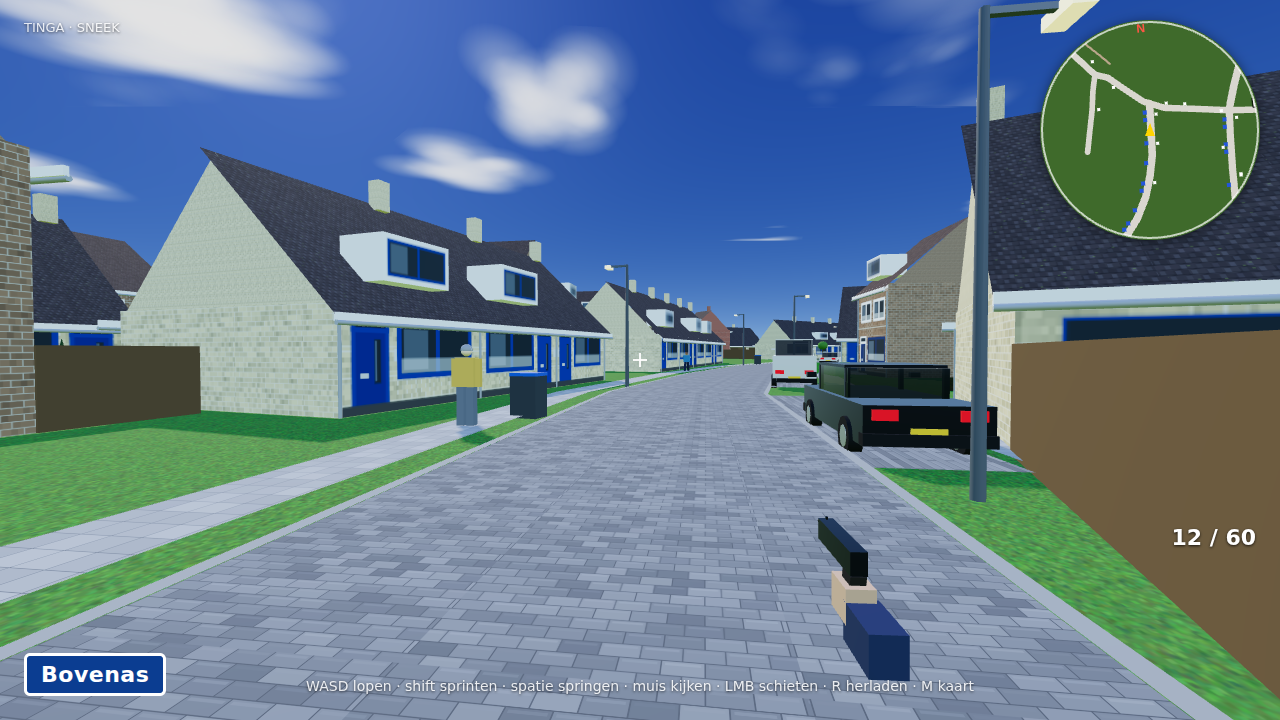
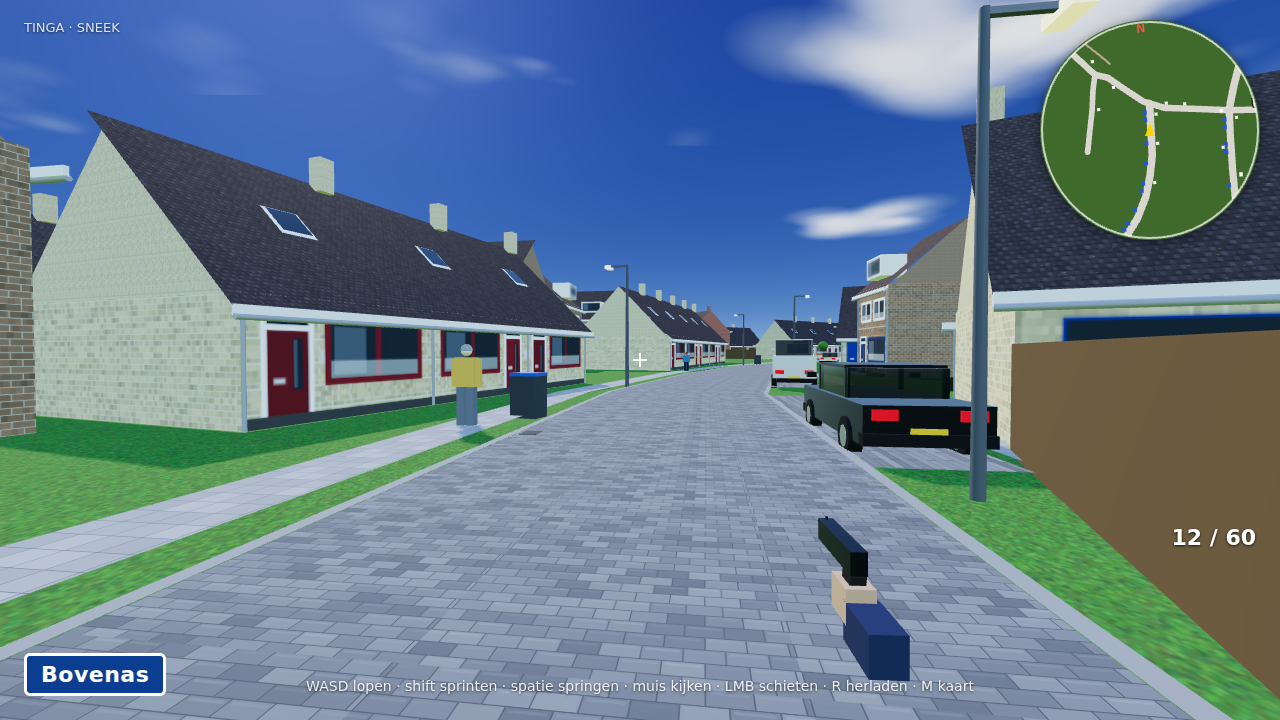
Bovenas naar de fotos, dakramen en meer detail in de wereld
Bovenas:
- Twee eigen huistypen in plaats van geleende: bungalows met dakramen en
  rijtjeshuizen met een galerij op de verdieping, allebei met rode kozijnen
  en rode voordeuren zoals op de fotos
- Het blijven doorlopende rijen; de botsingstoets knipte ze eerder te snel op
  in losse blokjes die als twee-onder-een-kap lazen. De toets kijkt nu naar
  vijf punten met een kleinere marge in plaats van negen

Dakramen en galerij:
- Woningen kunnen nu dakramen krijgen die plat in het dakvlak liggen, naast
  of in plaats van dakkapellen
- Een rijtje kan een doorlopende galerij op de verdieping krijgen, met vloer,
  balustrade en staanders

Meer leven in de wereld:
- Fietsen tegen de gevel, plantenbakken naast de voordeur, tuinornamenten en
  af en toe een boot onder dekzeil op de oprit
- Kolkdeksels langs de trottoirband
- Waar de achterkant van een rij op de straat uitkomt staat nu een lage haag
  in plaats van een blinde schutting met schuurtjes

Claude-Session: https://claude.ai/code/session_01CgvJ3cT2qTz68qbaTBhnbp

diff --git a/js/world.js b/js/world.js
@@ -115,6 +115,14 @@ function materials() {
   MAT.klikoLid = new THREE.MeshStandardMaterial({ color: 0x1f5fd0, roughness: 0.6 });
   MAT.white = new THREE.MeshStandardMaterial({ color: 0xf2f2f2, roughness: 0.8 });
   MAT.gutter = new THREE.MeshStandardMaterial({ color: 0xb9bcc0, roughness: 0.55, metalness: 0.4 });
+  MAT.glassDark = new THREE.MeshStandardMaterial({ color: 0x28323a, roughness: 0.12, metalness: 0.35 });
+  MAT.railing = new THREE.MeshStandardMaterial({ color: 0xc6cace, roughness: 0.45, metalness: 0.55 });
+  MAT.bikeFrame = new THREE.MeshStandardMaterial({ color: 0x1c2733, roughness: 0.5, metalness: 0.5 });
+  MAT.tyre = new THREE.MeshStandardMaterial({ color: 0x1a1a1a, roughness: 0.95 });
+  MAT.pot = new THREE.MeshStandardMaterial({ color: 0x9a5b3f, roughness: 0.9 });
+  MAT.tarp = new THREE.MeshStandardMaterial({ color: 0x27406b, roughness: 0.85 });
+  MAT.dish = new THREE.MeshStandardMaterial({ color: 0xdedad2, roughness: 0.6 });
+  MAT.drain = new THREE.MeshStandardMaterial({ color: 0x4a4a4c, roughness: 0.8, metalness: 0.3 });
   MAT.dark = new THREE.MeshStandardMaterial({ color: 0x2b2b2b, roughness: 0.8 });
   MAT.solar = std(T.solarPanel(), { roughness: 0.3, metalness: 0.5 });
   MAT.barrier = new THREE.MeshStandardMaterial({ color: 0x6b7a5a, roughness: 0.9 });
@@ -500,9 +508,9 @@ function buildRow(scene, row, idx) {
     return 'stoep';
   };
   const fits = (c) => {
-    for (const fx of [-1, 0, 1]) for (const fz of [-1, 0, 1]) {
-      const p = toWorldLocal(c.cx + fx * (c.w / 2 - 0.3), fz * (depth / 2 - 0.3));
-      if (blocked(p.x, p.y, 0.5)) { if (row.debug) console.warn(`  rij ${idx} unit ${c.cx.toFixed(1)}: ${why(p.x, p.y, 0.5)}`); return false; }
+    for (const [fx, fz] of [[-1, -1], [1, -1], [-1, 1], [1, 1], [0, 0]]) {
+      const p = toWorldLocal(c.cx + fx * (c.w / 2 - 0.35), fz * (depth / 2 - 0.35));
+      if (blocked(p.x, p.y, 0.25)) { if (row.debug) console.warn(`  rij ${idx} unit ${c.cx.toFixed(1)}: ${why(p.x, p.y, 0.25)}`); return false; }
     }
     const step = toWorldLocal(c.cx, depth / 2 + 1.2); // stoep voor de deur mag niet in de weg liggen
     if (roadClearance(step.x, step.y) < -0.5) { if (row.debug) console.warn(`  rij ${idx} unit ${c.cx.toFixed(1)}: stoep in weg`); return false; }
@@ -596,6 +604,23 @@ function buildRow(scene, row, idx) {
           group.add(dm);
         }
       }
+      if (st.skylight) {
+        const perHouse = unitLen / unitN;
+        const ang = Math.atan2(rh, depth / 2 + OV);
+        for (let i = 0; i < unitN; i++) {
+          const hx = cx - unitLen / 2 + perHouse * (i + 0.5);
+          const zRel = (depth / 2 + OV) * 0.45;
+          const y = facadeH - eaveDrop + rh * (1 - zRel / (depth / 2 + OV));
+          const frame = new THREE.Mesh(new THREE.PlaneGeometry(1.0, 1.15), MAT.white);
+          frame.rotation.x = -Math.PI / 2 + ang;
+          frame.position.set(hx, y + 0.05, zRel);
+          group.add(frame);
+          const glass = new THREE.Mesh(new THREE.PlaneGeometry(0.82, 0.95), MAT.glassDark);
+          glass.rotation.x = -Math.PI / 2 + ang;
+          glass.position.set(hx, y + 0.09, zRel);
+          group.add(glass);
+        }
+      }
       if (st.solar) {
         const perHouse = unitLen / unitN;
         for (let i = 0; i < unitN; i++) {
@@ -615,6 +640,18 @@ function buildRow(scene, row, idx) {
           const cg = new THREE.BoxGeometry(0.5, 1.1, 0.5); cg.translate(hx, facadeH - eaveDrop + rh + 0.25, 0.3); chims.push(cg);
         }
         group.add(new THREE.Mesh(mergeGeoms(chims), sideMat));
+      }
+      if (st.gallery) {
+        const floor = new THREE.Mesh(new THREE.BoxGeometry(unitLen, 0.14, 1.35), MAT.white);
+        floor.position.set(cx, 2.9, depth / 2 + 0.68); group.add(floor);
+        const rail = new THREE.Mesh(new THREE.BoxGeometry(unitLen, 0.95, 0.05), MAT.railing);
+        rail.position.set(cx, 3.45, depth / 2 + 1.33); group.add(rail);
+        const posts = [];
+        for (let i = 0; i <= unitN; i++) {
+          const hx = cx - unitLen / 2 + (unitLen / unitN) * i;
+          const pg = new THREE.CylinderGeometry(0.05, 0.05, 2.9, 6); pg.translate(hx, 1.45, depth / 2 + 1.3); posts.push(pg);
+        }
+        group.add(new THREE.Mesh(mergeGeoms(posts), MAT.railing));
       }
     } else {
       const edge = new THREE.Mesh(new THREE.BoxGeometry(unitLen + 0.2, 0.3, depth + 0.2), MAT.dark);
@@ -736,7 +773,46 @@ function buildGardens() {
             gv.translate(hx - side * w * 0.2, 0.025, z0 + frontAvail * 0.5); buckets.gravel.push(gv);
           }
         }
-        const matOf = { tiles: MAT.tiles, picket: MAT.picket, hedge: MAT.hedge, hedgeRed: MAT.hedgeRed, conifer: MAT.conifer, shrubA: MAT.shrubA, shrubB: MAT.shrubB, shrubC: MAT.shrubC, gravel: MAT.gravel, bench: MAT.bench, trunk: MAT.trunk, leaf: MAT.leaf };
+        // fietsen tegen de gevel, plantenbakken, tuinornamenten en af en toe een
+        // afgedekte boot op een trailer, zoals in de wijk voor de deur staat
+        buckets.bike = []; buckets.tyre = []; buckets.pot = []; buckets.tarp = []; buckets.stone = [];
+        for (let i = 0; i < run.n; i++) {
+          const hx = run.cx - run.len / 2 + w * (i + 0.5);
+          if (r() < 0.22 && frontAvail > 1.6) {          // fiets tegen de gevel
+            const bx = hx + (r() - 0.5) * (w - 1.6), bz = z0 + 0.55;
+            const ang = (r() - 0.5) * 0.5;
+            for (const dz of [-0.52, 0.52]) {
+              const wh = new THREE.TorusGeometry(0.34, 0.035, 6, 14);
+              wh.rotateY(Math.PI / 2 + ang); wh.translate(bx + Math.sin(ang) * dz, 0.36, bz + Math.cos(ang) * dz);
+              buckets.tyre.push(wh);
+            }
+            const bar = new THREE.BoxGeometry(0.05, 0.05, 1.0); bar.rotateY(ang); bar.translate(bx, 0.62, bz); buckets.bike.push(bar);
+            const seat = new THREE.BoxGeometry(0.12, 0.06, 0.26); seat.rotateY(ang); seat.translate(bx - Math.sin(ang) * 0.3, 0.86, bz - Math.cos(ang) * 0.3); buckets.bike.push(seat);
+            const stem = new THREE.BoxGeometry(0.05, 0.42, 0.05); stem.translate(bx + Math.sin(ang) * 0.38, 0.72, bz + Math.cos(ang) * 0.38); buckets.bike.push(stem);
+            const hb = new THREE.BoxGeometry(0.48, 0.04, 0.04); hb.rotateY(ang); hb.translate(bx + Math.sin(ang) * 0.38, 0.94, bz + Math.cos(ang) * 0.38); buckets.bike.push(hb);
+          }
+          if (r() < 0.3 && frontAvail > 1.2) {           // plantenbakken naast de deur
+            const px2 = hx + (r() < 0.5 ? -1 : 1) * (0.9 + r() * 0.6);
+            const pg = new THREE.CylinderGeometry(0.19, 0.15, 0.32, 8); pg.translate(px2, 0.16, z0 + 0.5); buckets.pot.push(pg);
+            const pl = new THREE.SphereGeometry(0.22, 6, 5); pl.scale(1, 0.8, 1); pl.translate(px2, 0.42, z0 + 0.5); buckets.shrubB.push(pl);
+          }
+          if (r() < 0.14 && frontAvail > 2.2) {          // tuinornament of siersteen
+            const ox = hx + (r() - 0.5) * (w - 1.2), oz = z0 + 1.0 + r() * (frontAvail - 1.6);
+            const og = new THREE.SphereGeometry(0.16 + r() * 0.1, 6, 5); og.scale(1, 1.4, 1); og.translate(ox, 0.18, oz); buckets.stone.push(og);
+          }
+        }
+        if (r() < 0.10 && frontAvail > 3.2 && run.len > 10) {   // boot onder dekzeil op de oprit
+          const bx = run.cx + (r() - 0.5) * (run.len - 6);
+          const hull = new THREE.BoxGeometry(1.7, 0.55, 4.4); hull.translate(bx, 0.72, z0 + frontAvail * 0.55);
+          buckets.tarp.push(hull);
+          const cover = new THREE.BoxGeometry(1.5, 0.34, 4.0); cover.translate(bx, 1.14, z0 + frontAvail * 0.55);
+          buckets.tarp.push(cover);
+          for (const dz2 of [-1.3, 1.3]) {
+            const wh = new THREE.CylinderGeometry(0.22, 0.22, 0.16, 8); wh.rotateZ(Math.PI / 2); wh.translate(bx + 0.85, 0.22, z0 + frontAvail * 0.55 + dz2); buckets.tyre.push(wh);
+            const wh2 = new THREE.CylinderGeometry(0.22, 0.22, 0.16, 8); wh2.rotateZ(Math.PI / 2); wh2.translate(bx - 0.85, 0.22, z0 + frontAvail * 0.55 + dz2); buckets.tyre.push(wh2);
+          }
+        }
+        const matOf = { tiles: MAT.tiles, picket: MAT.picket, hedge: MAT.hedge, hedgeRed: MAT.hedgeRed, conifer: MAT.conifer, shrubA: MAT.shrubA, shrubB: MAT.shrubB, shrubC: MAT.shrubC, gravel: MAT.gravel, bench: MAT.bench, trunk: MAT.trunk, leaf: MAT.leaf, bike: MAT.bikeFrame, tyre: MAT.tyre, pot: MAT.pot, tarp: MAT.tarp, stone: MAT.gravel };
         for (const key of Object.keys(buckets)) {
           if (!buckets[key].length) continue;
           const m = new THREE.Mesh(mergeGeoms(buckets[key]), matOf[key]);
@@ -746,10 +822,25 @@ function buildGardens() {
 
       // ---------- achtertuinen ----------
       if (backAvail >= 1.8 && row.type !== 'spil') {
+        // Staat de achterkant vlak langs een straat, dan hoort daar geen hoge
+        // schutting maar een lage haag; anders kijk je vanaf de weg tegen een
+        // blinde houten wand aan.
+        let openToStreet = false;
+        for (let x = run.cx - run.len / 2 + 1; x <= run.cx + run.len / 2 - 1; x += 3) {
+          const p = toWorldLocal(x, -depth / 2 - backAvail - 1.2);
+          if (roadClearance(p.x, p.y) < 1.2) { openToStreet = true; break; }
+        }
+        if (openToStreet) {
+          const hm = new THREE.MeshStandardMaterial({ map: T.hedge().clone(), roughness: 1 });
+          hm.map.needsUpdate = true; hm.map.repeat.set(run.len / 1.2, 1);
+          const h = new THREE.Mesh(new THREE.BoxGeometry(run.len, 0.85, 0.5), hm);
+          h.position.set(run.cx, 0.42, -depth / 2 - backAvail); h.castShadow = true;
+          group.add(h);
+        }
         const parts = [];
-        const f = new THREE.BoxGeometry(run.len, 1.8, 0.08); f.translate(run.cx, 0.9, -depth / 2 - backAvail); parts.push(f);
+        if (!openToStreet) { const f = new THREE.BoxGeometry(run.len, 1.8, 0.08); f.translate(run.cx, 0.9, -depth / 2 - backAvail); parts.push(f); }
         for (const sgn of [-1, 1]) { const f2 = new THREE.BoxGeometry(0.08, 1.8, backAvail); f2.translate(run.cx + sgn * run.len / 2, 0.9, -depth / 2 - backAvail / 2); parts.push(f2); }
-        if (backAvail >= 4.5) {
+        if (backAvail >= 4.5 && !openToStreet) {
           const shedCount = Math.max(1, Math.round(run.len / 6));
           for (let i = 0; i < shedCount; i++) {
             const hx = run.cx - run.len / 2 + (run.len / shedCount) * (i + 0.5);
@@ -983,6 +1074,28 @@ function buildFurniture(scene) {
     m.compose(new THREE.Vector3(k.x, 1.09, k.z), q, new THREE.Vector3(1, 1, 1)); lMesh.setMatrixAt(i, m);
   });
   scene.add(kMesh, lMesh);
+
+  // Kolkdeksels langs de trottoirband
+  {
+    const drains = [];
+    const rr = rng(881);
+    for (const sgm of roadSegments) {
+      if (!sgm.drive || sgm.w < 4) continue;
+      const ax = sgm.a[0], az = sgm.a[1], bx = sgm.b[0], bz = sgm.b[1];
+      const len = Math.hypot(bx - ax, bz - az); if (len < 8) continue;
+      const dx = (bx - ax) / len, dz = (bz - az) / len;
+      for (let t = 6; t < len - 4; t += 22) {
+        if (rr() < 0.35) continue;
+        const side = rr() < 0.5 ? 1 : -1;
+        const px = ax + dx * t + dz * side * (sgm.w / 2 - 0.25);
+        const pz = az + dz * t - dx * side * (sgm.w / 2 - 0.25);
+        const g = new THREE.BoxGeometry(0.42, 0.03, 0.32);
+        g.rotateY(-Math.atan2(dz, dx)); g.translate(px, ROAD_Y + 0.02, pz);
+        drains.push(g);
+      }
+    }
+    if (drains.length) scene.add(new THREE.Mesh(mergeGeoms(drains), MAT.drain));
+  }
 
   // Parkeerhoven
   for (const lot of PARKING_LOTS) {

diff --git a/js/textures.js b/js/textures.js
@@ -254,6 +254,8 @@ export const HOUSE_STYLES = {
   bonkelaar:  { brick: ['#8e4a3a', '#c9bfae'], frame: '#ffffff', frame2: '#ffffff', door: ['#2a2a2a', '#1f3a6e', '#3a6e2a'], roof: '#4a3327', roofType: 'gable', storeys: 2, w: 6.4, dormer: false, chimney: true, band: '#f2f2f2', semi: true },
   detached:   { brick: ['#7e5a48', '#c9bfae'], frame: '#ffffff', frame2: '#ffffff', door: ['#2a2a2a', '#5a2d1a'], roof: '#3b3432', roofType: 'gable', storeys: 2, w: 10.0, dormer: false, chimney: true, band: '#f2f2f2', solar: true, detached: true },
   appart:     { brick: ['#d6c08c', '#e5dccb'], frame: '#ffffff', frame2: '#ffffff', door: ['#2b2b2b'], roof: '#555', roofType: 'flat', storeys: 3, w: 7.0, dormer: false, chimney: false, band: '#f2f2f2', balcony: true },
+  bovenas_bung:{ brick: ['#d3c39a', '#e4dcc8'], frame: '#ffffff', frame2: '#8c1f2a', door: ['#8c1f2a', '#7a1a24'], roof: '#453833', roofType: 'gable', storeys: 1, w: 5.4, dormer: false, skylight: true, chimney: true, band: '#f4f4f4' },
+  bovenas_gal: { brick: ['#d6c69e', '#e6dfcb'], frame: '#ffffff', frame2: '#8c1f2a', door: ['#8c1f2a', '#7a1a24'], roof: '#453833', roofType: 'gable', storeys: 2, w: 5.4, dormer: false, skylight: true, chimney: true, gallery: true, band: '#f4f4f4' },
   spil:       { brick: ['#b57a5a', '#d0c6b8'], frame: '#2b2b2b', frame2: '#2b2b2b', door: ['#2b2b2b'], roof: '#555', roofType: 'flat', storeys: 1, w: 8.0, dormer: false, chimney: false, band: '#2b2b2b' },
 };
 

diff --git a/js/data.js b/js/data.js
@@ -272,7 +272,7 @@ R(-12,1360, -45,1530, -11, 9, 'wieken_white');
 R(-14,1372, -45,1528,  11, 9, 'wieken_yellow');
 
 // ===== Bovenas =====
-R(104,1500, 66,1660, -13, 10, 'jasker_flat');    // westzijde: twee lagen met balkons
+R(104,1500, 66,1660, -13, 10, 'bovenas_gal');    // westzijde: twee lagen met galerij
 R(60,1700, 20,1770, -13, 14, 'appart', { storeys: 3 });  // flats aan het zuideind
 // blok tussen Bovenas en Molenkrite-zuid: oost-west rijen
 R(150,1447, 255,1455, -13, 9, 'molenkrite');
@@ -315,8 +315,8 @@ R(30,1362, 245,1452,    10, 9, 'wieken_white');    // noordzijde oost-westdeel
 // Voorzoom en Windbord over de volle lengte
 R(-190,1128, -372,1110, -12, 9, 'wieken_yellow');
 // Bovenas oostzijde
-R(108,1500, 55,1712,    11, 9, 'wieken_white');   // oostzijde: bungalows met dakkapellen
-R(30,1740, -38,1798,    12, 9, 'wieken_white');
+R(108,1500, 55,1712,    11, 9, 'bovenas_bung');   // oostzijde: bungalows met dakramen en rode kozijnen
+R(30,1740, -38,1798,    12, 9, 'bovenas_bung');
 
 // Molenkrite zuid: rijen aan weerszijden
 R(303,1500, 300,1660,  -13, 9, 'molenkrite');
